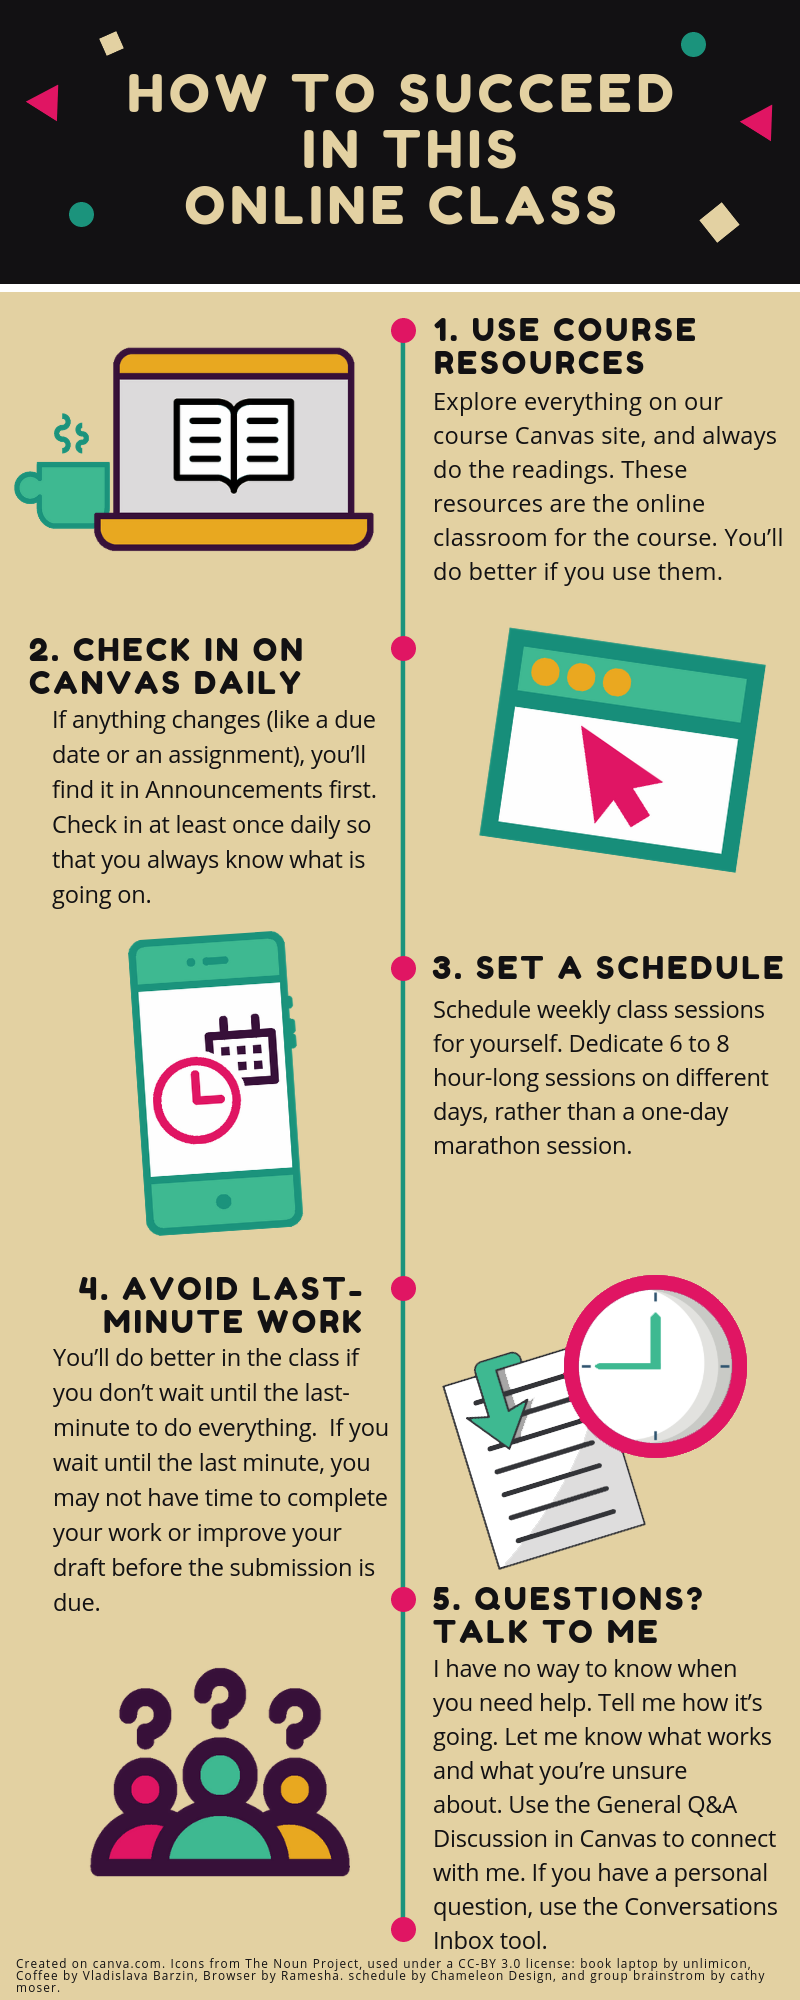
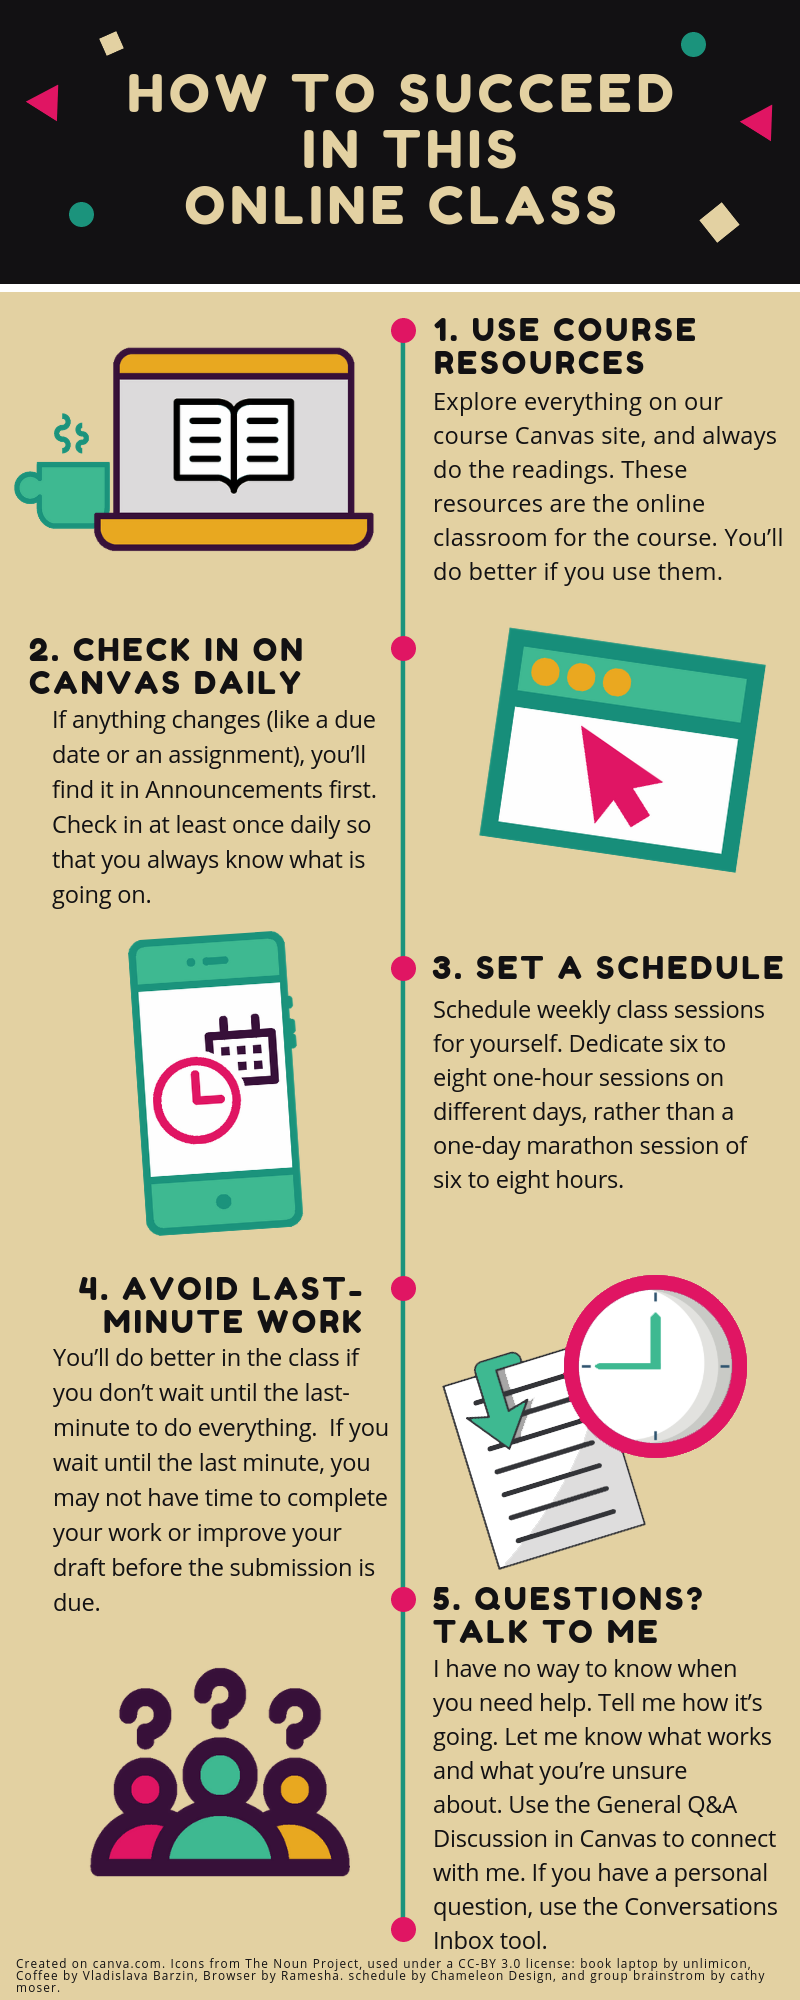
how to success in an online class tweaking

Changed region(s): [[0.5625, 0.496, 0.9375, 0.62]]

diff --git a/TechComm/technical-howtos/how-to-succeed-in-an-online-class.html b/TechComm/technical-howtos/how-to-succeed-in-an-online-class.html
@@ -54,7 +54,7 @@
 <li style="margin-bottom: 15px;"><strong>Use course resources: </strong>Explore everything on our course Canvas site, and always do the readings. These resources are the online classroom for the course. You&rsquo;ll do better if you use them.</li>
 <li style="margin-bottom: 15px;"><strong>Check in on Canvas daily:</strong><span>&nbsp;</span>If anything changes (like a due date or an assignment), you&rsquo;ll find it in Announcements first. Check in at least once daily so that you always know what is going on.
 </li>
-<li style="margin-bottom: 15px;"><strong>Set a schedule:</strong> Schedule weekly class sessions for yourself. Dedicate 6 to 8 hour-long sessions on different days, rather than a one-day marathon session.</li>
+<li style="margin-bottom: 15px;"><strong>Set a schedule:</strong> Schedule weekly class sessions for yourself. Dedicate six to eight one-hour sessions on different days, rather than a one-day marathon session of six to eight hours</li>
 <li style="margin-bottom: 15px;"><strong>Avoid last-minute work:</strong> You&rsquo;ll do better in the class if you don&rsquo;t wait until the last-minute to do everything. If you wait until the last minute, you may not have time to complete your work or improve your draft before the submission is due.</li>
 <li style="margin-bottom: 15px;"><strong>Questions? Talk to Me:</strong> I have no way to know when you need help. Tell me how it&rsquo;s going. Let me know what works and what you&rsquo;re unsure about. Use the General Q&amp;A Discussion in Canvas to connect with me. If you have a personal question, use the <a href="https://community.canvaslms.com/docs/DOC-10701#jive_content_id_Conversations">Conversations Inbox tool</a>.</li>
 </ol>
